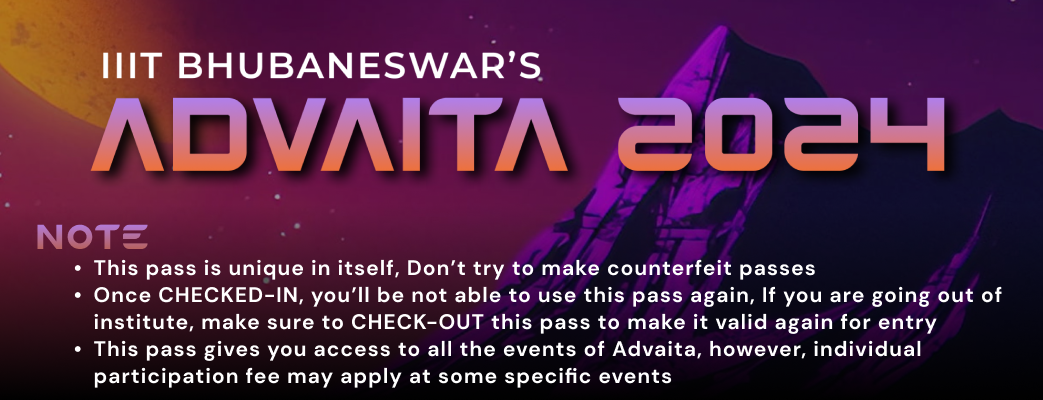
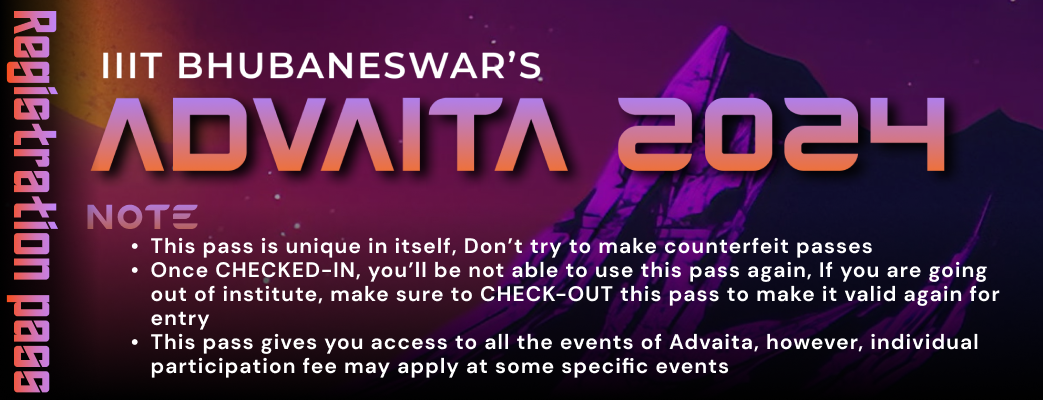
added new pass design for professional

Changed region(s): [[0.0, 0.0, 0.9818, 0.99]]

diff --git a/main.py b/main.py
@@ -10,18 +10,20 @@ db = client['production']
 
 
 n = int(input("Enter the number of Tickets codes you want to generate: "))
+db.generation.insert_one(
+    {"message": f'{n} tickets generated at: {datetime.datetime.now()}'})
 for i in range(n):
     # Generating the qr code
     num = random.randint(0, 9999999999999999999)
     num2 = random.randint(0, 9999999999999999999)
     qr = qrcode.make(f'{str(num2)}advaita2024{str(num)}')
     qr.save(f'./result/myQr{str(num)+str(num2)}.png')
-    db.generation.insert_one({"message":f'{n} tickets generated at: {datetime.datetime.now}'})
+
     db.tickets.insert_one(
         {"qr": f'{str(num2)}advaita2024{str(num)}', "day0": False, "day1": False, "day2": False, "day3": False, "day0Checkin": False, "day1Checkin": False, "day2Checkin": False, "day3Checkin": False})
     # joining the two images
     img1 = Image.open(f'./result/myQr{str(num)+str(num2)}.png')
-    img2 = Image.open("./pass.png")
+    img2 = Image.open("./pass2.png")
     w1, h1 = img1.size
     w2, h2 = img2.size
     newHeight = max(h1, h2)
